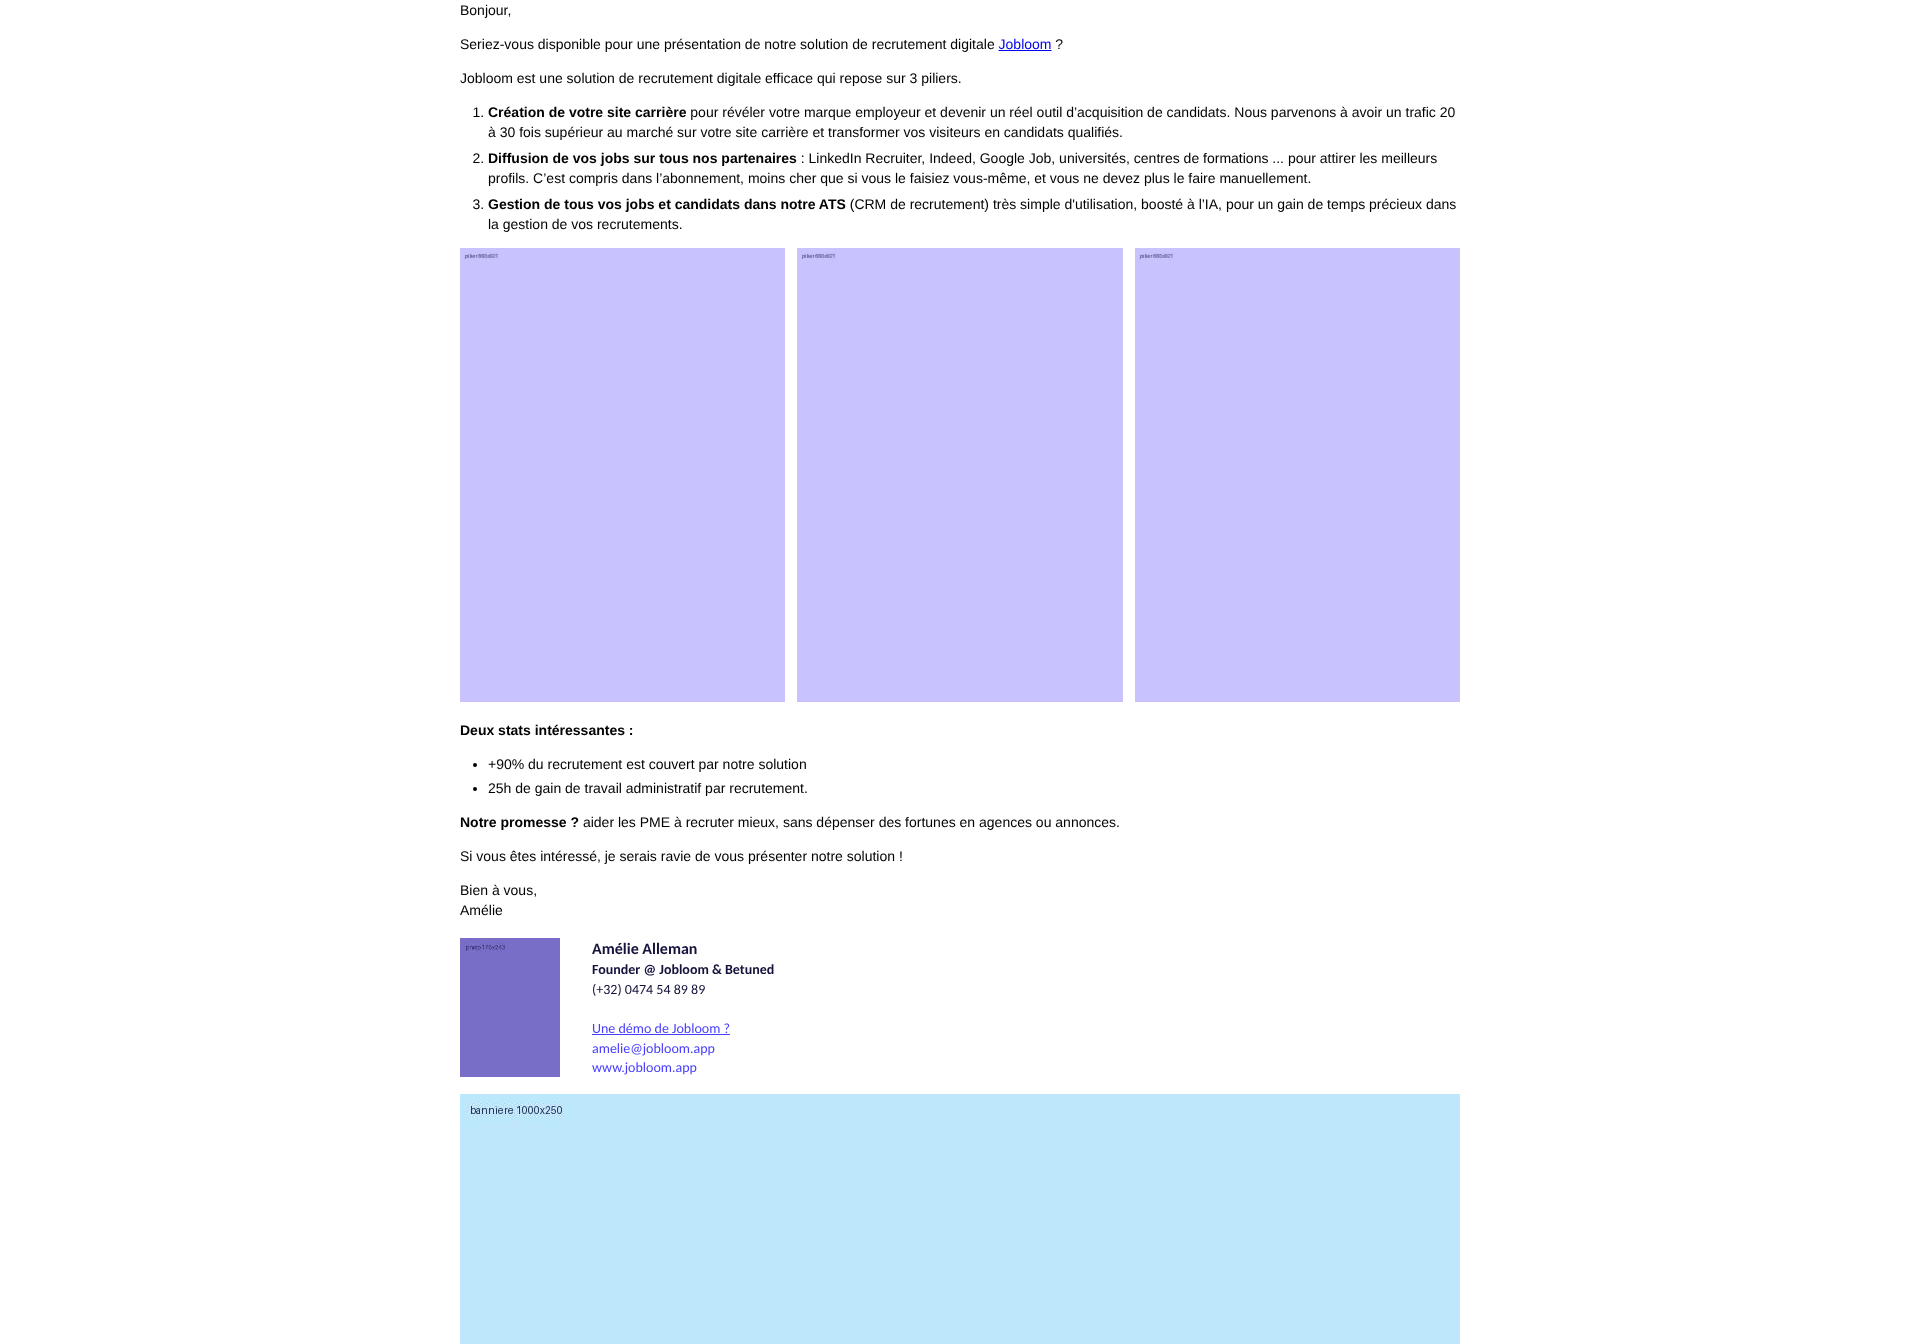
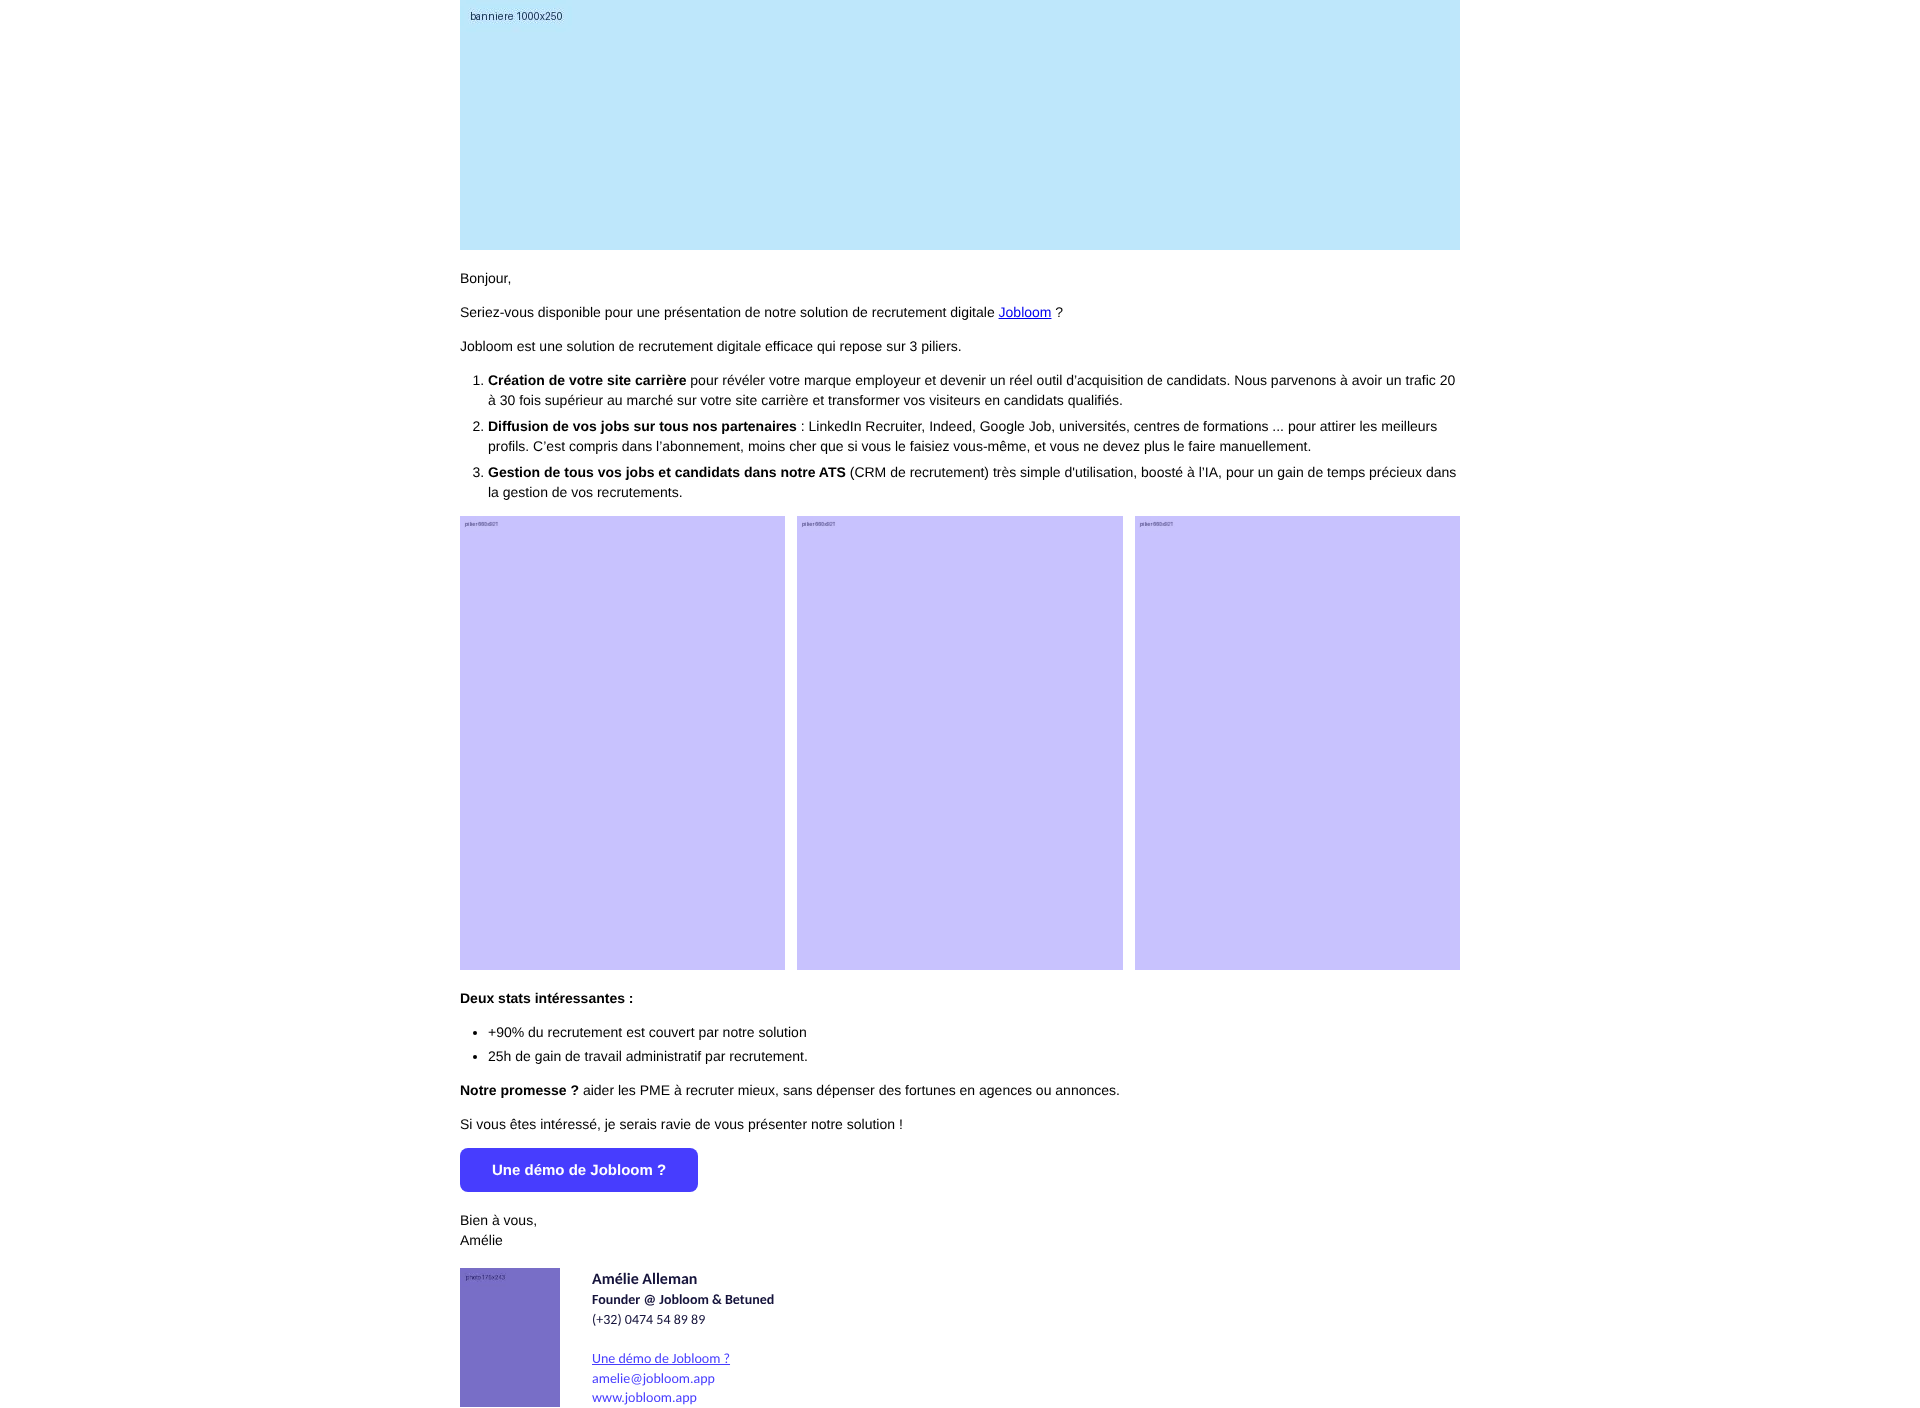
Email Amélie : bouton démo visible, bannière conservée en bas
Claude-Session: https://claude.ai/code/session_01XTeiUwKp5X2MxE8FSKHjU9

diff --git a/email-livrable/email_1st_Amelie_final.html b/email-livrable/email_1st_Amelie_final.html
@@ -1,5 +1,5 @@
 <!DOCTYPE html>
-<html lang="fr" xmlns="http://www.w3.org/1999/xhtml" xmlns:o="urn:schemas-microsoft-com:office:office">
+<html lang="fr" xmlns="http://www.w3.org/1999/xhtml" xmlns:v="urn:schemas-microsoft-com:vml" xmlns:o="urn:schemas-microsoft-com:office:office">
 <head>
 <meta charset="utf-8">
 <meta http-equiv="Content-Type" content="text/html; charset=utf-8">
@@ -31,6 +31,10 @@ li{margin-left:0 !important;}</style>
 <!--[if mso]><table role="presentation" width="800" cellpadding="0" cellspacing="0" border="0" align="center"><tr><td><![endif]-->
 <div class="txt" style="width:100%;max-width:1000px;margin:0 auto;text-align:left;font-family:Arial,Helvetica,sans-serif;font-size:14px;line-height:20px;mso-line-height-rule:exactly;color:#000000">
 
+<table role="presentation" cellpadding="0" cellspacing="0" border="0" width="100%" style="border-collapse:collapse;width:100%;margin:0 0 18px 0"><tr><td align="left" style="padding:0"><a href="https://www.jobloom.app/agenda" style="text-decoration:none">
+<!--[if mso]><img src="https://jobloom-landing-pages-massimoharnisfeger-hues-projects.vercel.app/signature/banniere-jobloom.jpg" width="800" height="200" alt="Recruter, c'est cher, long et compliqué. Mais tellement moins avec Jobloom" style="display:block;width:800px;height:200px;border:0"><![endif]-->
+<!--[if !mso]><!--><img src="https://jobloom-landing-pages-massimoharnisfeger-hues-projects.vercel.app/signature/banniere-jobloom.jpg" width="1000" height="250" alt="Recruter, c'est cher, long et compliqué. Mais tellement moins avec Jobloom" style="display:block;width:100%;height:auto;border:0"><!--<![endif]-->
+</a></td></tr></table>
 <p style="margin:0 0 14px 0">Bonjour,</p>
 <p style="margin:0 0 14px 0">Seriez-vous disponible pour une présentation de notre solution de recrutement digitale <a href="https://www.jobloom.be/">Jobloom</a>&nbsp;?</p>
 <p style="margin:0 0 14px 0">Jobloom est une solution de recrutement digitale efficace qui repose sur 3 piliers.</p>
@@ -47,6 +51,16 @@ li{margin-left:0 !important;}</style>
 </ul>
 <p style="margin:0 0 14px 0"><b>Notre promesse&nbsp;?</b> aider les PME à recruter mieux, sans dépenser des fortunes en agences ou annonces.</p>
 <p style="margin:0 0 14px 0">Si vous êtes intéressé, je serais ravie de vous présenter notre solution&nbsp;!</p>
+<!--[if mso]>
+<table role="presentation" cellpadding="0" cellspacing="0" border="0"><tr><td style="padding:0 0 18px 0">
+<v:roundrect xmlns:v="urn:schemas-microsoft-com:vml" xmlns:w="urn:schemas-microsoft-com:office:word" href="https://calendly.com/amelie-betuned" style="height:44px;v-text-anchor:middle;width:260px" arcsize="20%" stroke="f" fillcolor="#473DFE"><w:anchorlock/><center style="color:#FFFFFF;font-family:Arial,Helvetica,sans-serif;font-size:15px;font-weight:bold">Une démo de Jobloom ?</center></v:roundrect>
+</td></tr></table>
+<![endif]-->
+<!--[if !mso]><!-->
+<table role="presentation" cellpadding="0" cellspacing="0" border="0" style="border-collapse:separate;margin:0 0 18px 0"><tr><td align="center" bgcolor="#473DFE" style="background:#473DFE;border-radius:8px">
+<a href="https://calendly.com/amelie-betuned" style="display:inline-block;padding:13px 32px;font-family:Arial,Helvetica,sans-serif;font-size:15px;line-height:18px;font-weight:bold;color:#FFFFFF;text-decoration:none;border-radius:8px">Une démo de Jobloom ?</a>
+</td></tr></table>
+<!--<![endif]-->
 <p style="margin:0 0 18px 0">Bien à vous,<br>Amélie</p>
 
 <table role="presentation" cellpadding="0" cellspacing="0" border="0" style="border-collapse:collapse;font-family:Calibri,Arial,sans-serif;font-size:14px;line-height:1.4;color:#15133B">
@@ -62,11 +76,6 @@ li{margin-left:0 !important;}</style>
 </td>
 </tr>
 </table>
-<table role="presentation" cellpadding="0" cellspacing="0" border="0" width="100%" style="border-collapse:collapse;width:100%;margin:16px 0 0 0"><tr><td align="left" style="padding:0"><a href="https://www.jobloom.app/agenda" style="text-decoration:none">
-<!--[if mso]><img src="https://jobloom-landing-pages-massimoharnisfeger-hues-projects.vercel.app/signature/banniere-jobloom.jpg" width="800" height="200" alt="Recruter, c'est cher, long et compliqué. Mais tellement moins avec Jobloom" style="display:block;width:800px;height:200px;border:0"><![endif]-->
-<!--[if !mso]><!--><img src="https://jobloom-landing-pages-massimoharnisfeger-hues-projects.vercel.app/signature/banniere-jobloom.jpg" width="1000" height="250" alt="Recruter, c'est cher, long et compliqué. Mais tellement moins avec Jobloom" style="display:block;width:100%;height:auto;border:0"><!--<![endif]-->
-</a></td></tr></table>
-
 </div>
 <!--[if mso]></td></tr></table><![endif]-->
 </td></tr></table>
